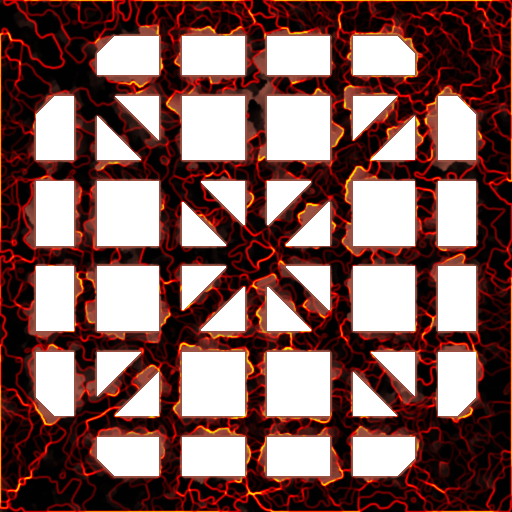
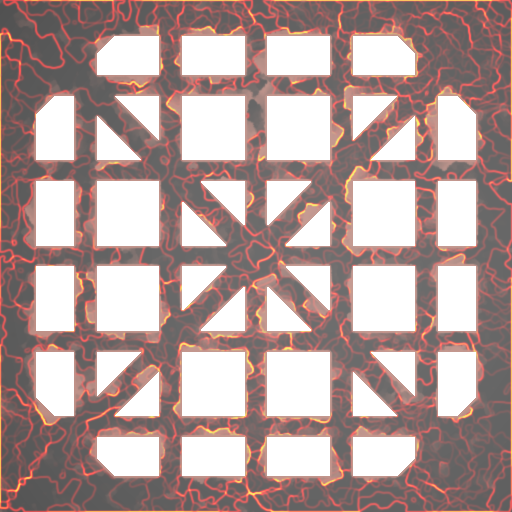
texture crash possibly fixed texture alpha done

diff --git a/Main.cpp b/Main.cpp
@@ -24,7 +24,7 @@ public:
 
 	// Meshes for scenes
 	game::Mesh plane;
-	game::Mesh alphaWall;
+	game::Mesh alphaCube;
 	game::Mesh model;
 	game::Mesh torus;
 	game::Mesh sky;
@@ -97,7 +97,7 @@ public:
 			std::cout << "Could not load model\n";
 		}
 
-		if (!LoadObj("Content/cubetest.obj", alphaWall))
+		if (!LoadObj("Content/cubetest.obj", alphaCube))
 		{
 			std::cout << "Could not load model\n";
 		}
@@ -113,7 +113,7 @@ public:
 		uint32_t t = 0;
 		uint32_t texw = 0;
 		uint32_t texh = 0;
-		uint32_t* temp = (uint32_t*)imageloader.Load("content/colormap2.png", texw, texh, t);
+		uint32_t* temp = (uint32_t*)imageloader.Load("content/colormap3.png", texw, texh, t);
 		model.texture.data = new uint32_t[texw * texh];
 		memcpy(model.texture.data, temp, (size_t)texw * texh * 4);
 		model.texture.size.width = texw;
@@ -133,10 +133,10 @@ public:
 		texw = 0;
 		texh = 0;
 		temp = (uint32_t*)imageloader.Load("content/grate0_alpha.png", texw, texh, t);
-		alphaWall.texture.data = new uint32_t[texw * texh];
-		memcpy(alphaWall.texture.data, temp, (size_t)texw * texh * 4);
-		alphaWall.texture.size.width = texw;
-		alphaWall.texture.size.height = texh;
+		alphaCube.texture.data = new uint32_t[texw * texh];
+		memcpy(alphaCube.texture.data, temp, (size_t)texw * texh * 4);
+		alphaCube.texture.size.width = texw;
+		alphaCube.texture.size.height = texh;
 		
 
 		game::Random rnd;
@@ -219,32 +219,32 @@ public:
 		plane.SetTranslation(0.0f, 0.1f, 0.0f);
 		plane.SetScale(60.0f, 60.0f, 60.0f);
 
-		alphaWall.SetTranslation(-0.0f, -0.41f, 0.0f);
-		alphaWall.SetScale(0.5f, 0.5f, 0.5f);
+		alphaCube.SetTranslation(-0.0f, -0.41f, 0.0f);
+		alphaCube.SetScale(0.5f, 0.5f, 0.5f);
 		game::Color col(1.0f, 0.0f, 0.0f, 0.5f);
 		game::Color col2(0.0f, 1.0f, 0.0f, 0.5f);
 		game::Color col3(0.0f, 0.0f, 1.0f, 0.5f);
 		game::Color set = col;
 		uint32_t ct = 0;
-		for (uint32_t i = 0; i < alphaWall.tris.size(); i++)
+		for (uint32_t i = 0; i < alphaCube.tris.size(); i++)
 		{			
-			alphaWall.tris[i].color[0] = set;
-			alphaWall.tris[i].color[1] = set;
-			alphaWall.tris[i].color[2] = set;
-			ct++;
-			ct %= 3;
-			if (ct == 0)
-			{
-				set = col;
-			}
-			if (ct == 1)
-			{
-				set = col2;
-			}
-			if (ct == 2)
-			{
-				set = col3;
-			}
+			alphaCube.tris[i].color[0] = set;
+			alphaCube.tris[i].color[1] = set;
+			alphaCube.tris[i].color[2] = set;
+			//ct++;
+			//ct %= 3;
+			//if (ct == 0)
+			//{
+			//	set = col;
+			//}
+			//if (ct == 1)
+			//{
+			//	set = col2;
+			//}
+			//if (ct == 2)
+			//{
+			//	set = col3;
+			//}
 		}
 
 		model.SetRotation(3.14159f / 2.0f, 3.14159f, 0.0f);
@@ -270,7 +270,7 @@ public:
 		software3D.DeleteRenderTarget(renderTarget);
 		software3D.DeleteTexture(sky.texture);
 		software3D.DeleteTexture(model.texture);
-		software3D.DeleteTexture(alphaWall.texture);
+		software3D.DeleteTexture(alphaCube.texture);
 	}
 
 	void Update(const float_t msElapsed)
@@ -390,44 +390,41 @@ public:
 		
 		model.SetRotation(3.14159f / 2.0f, 3.14159f + rotation, 0.0f);
 		sky.SetTranslation(camera.position.x, 1.5f, camera.position.z);
-		alphaWall.SetRotation(0.0f, rotation, 0.0f);
+		//alphaCube.SetRotation(0.0f, rotation, 0.0f);
 		//game::Vector3f center;// (model.centerPoint);
 		//game::Vector3MultMatrix4x4(model.centerPoint, model.model, center);
 		//camera.GenerateLookAtMatrix(center);
 		camera.GenerateViewMatrix();
 		mvpMat = projMat * camera.view; // not sure if this should be in the RenderMesh
 
-
-		software3D.SetState(GAME_SOFTWARE3D_BACKFACECULL, true);
-		//software3D.SetState(GAME_SOFTWARE3D_ALPHA_TEST, false);
-		software3D.SetState(GAME_SOFTWARE3D_DEPTH_WRITE, true);
-		software3D.SetState(GAME_SOFTWARE3D_TEXTURE, false);
-
-		software3D.SetState(GAME_SOFTWARE3D_LIGHTING, false);
-		software3D.RenderMesh(plane, mvpMat, camera, clip);
-
-		software3D.SetState(GAME_SOFTWARE3D_TEXTURE, true);
-		software3D.RenderMesh(sky, mvpMat, camera, clip);
-
-		software3D.SetState(GAME_SOFTWARE3D_LIGHTING, true);
-		//software3D.SetState(GAME_SOFTWARE3D_LIGHTING_TYPE, game::LightingType::Face);
-		software3D.RenderMesh(model, mvpMat, camera, clip);
-		
-		//software3D.SetState(GAME_SOFTWARE3D_LIGHTING_TYPE, game::LightingType::Vertex);
-		software3D.RenderMesh(torus, mvpMat, camera, clip);
-
-		software3D.SetState(GAME_SOFTWARE3D_LIGHTING, false);
-		software3D.SetState(GAME_SOFTWARE3D_TEXTURE, false);
-		software3D.SetState(GAME_SOFTWARE3D_DEPTH_WRITE, false);
-		//software3D.SetState(GAME_SOFTWARE3D_LIGHTING_TYPE, game::LightingType::Face);
-		//software3D.SetState(GAME_SOFTWARE3D_ALPHA_TEST, true);
-		//software3D.SetState(GAME_SOFTWARE3D_ALPHA_TEST_VALUE, 128);
-		software3D.SetState(GAME_SOFTWARE3D_BACKFACECULL, false);
-		software3D.SetState(GAME_SOFTWARE3D_SORT, game::SortingType::BackToFront);
-		software3D.SetState(GAME_SOFTWARE3D_ALPHA_BLEND, true);
-		software3D.RenderMesh(alphaWall, mvpMat, camera, clip);
 		software3D.SetState(GAME_SOFTWARE3D_SORT, game::SortingType::FrontToBack);
 		software3D.SetState(GAME_SOFTWARE3D_ALPHA_BLEND, false);
+		software3D.SetState(GAME_SOFTWARE3D_BACKFACECULL, true);
+		software3D.SetState(GAME_SOFTWARE3D_DEPTH_WRITE, true);
+		software3D.SetState(GAME_SOFTWARE3D_LIGHTING, false);
+		software3D.SetState(GAME_SOFTWARE3D_TEXTURE, true);
+		software3D.RenderMesh(plane, mvpMat, camera, clip);
+
+		software3D.RenderMesh(sky, mvpMat, camera, clip);
+
+
+		software3D.SetState(GAME_SOFTWARE3D_LIGHTING, true);
+		software3D.RenderMesh(torus, mvpMat, camera, clip);
+
+		
+		software3D.SetState(GAME_SOFTWARE3D_ALPHA_TEST, true);
+		software3D.SetState(GAME_SOFTWARE3D_ALPHA_TEST_VALUE, 128);
+		software3D.SetState(GAME_SOFTWARE3D_BACKFACECULL, false);
+		software3D.RenderMesh(alphaCube, mvpMat, camera, clip);
+
+		software3D.SetState(GAME_SOFTWARE3D_LIGHTING, false);
+		software3D.SetState(GAME_SOFTWARE3D_DEPTH_WRITE, false);
+		software3D.SetState(GAME_SOFTWARE3D_ALPHA_TEST, false);
+		software3D.SetState(GAME_SOFTWARE3D_SORT, game::SortingType::BackToFront);
+		software3D.SetState(GAME_SOFTWARE3D_ALPHA_BLEND, true);
+		software3D.RenderMesh(model, mvpMat, camera, clip);
+
+
 
 
 

diff --git a/GameSoftware3D.h b/GameSoftware3D.h
@@ -470,6 +470,7 @@ namespace game
 
 	inline void Software3D::RenderMesh(Mesh& mesh, Matrix4x4f& projection, Camera3D& camera, ClippingRects& clip)
 	{
+		
 		VertexProcessor(mesh, projection, trianglesToRender, camera);
 		SetTexture(mesh.texture);
 		uint64_t fenceCount = 0;
@@ -478,6 +479,9 @@ namespace game
 			{
 				float_t az = a.vertices[0].z + a.vertices[1].z + a.vertices[2].z;
 				float_t bz = b.vertices[0].z + b.vertices[1].z + b.vertices[2].z;
+				//float_t ad = max(max(a.vertices[0].z, a.vertices[1].z), a.vertices[2].z);
+				//float_t bd = max(max(b.vertices[0].z, b.vertices[1].z), b.vertices[2].z);
+				//std::cout << az << "," << bz << "\n";
 				return az > bz;
 			};
 		auto frontToBack = [](const game::Triangle& a, const game::Triangle& b)
@@ -499,7 +503,7 @@ namespace game
 			default: break;
 			}
 			
-			//pixelMode.Rect(clip[c], game::Colors::Yellow);
+			//_pixelMode->Rect(clip.clips[c], game::Colors::Yellow);
 			Render(clip.clippedTris[c], clip.clips[c]);
 			fenceCount++;
 		}
@@ -719,7 +723,7 @@ namespace game
 		float_t upDiv = 0.0f;
 		float_t vpDiv = 0.0f;
 
-		uint32_t color = 0;
+		//uint32_t color = 0;
 		uint32_t rc = 0;
 		uint32_t gc = 0;
 		uint32_t bc = 0;
@@ -955,17 +959,16 @@ namespace game
 						}
 
 						// alpha blending
-						if (_enableAlphaBlend) //307
+						if (_enableAlphaBlend) 
 						{
 							uint32_t dest = *colorBuffer;
-							// extract dest
-						
+							// extract dest						
 							float_t rDest = ((dest >> 0) & 0xFF) * colorAtPixel.oneOver255;
 							float_t gDest = ((dest >> 8) & 0xFF) * colorAtPixel.oneOver255;
 							float_t bDest = ((dest >> 16) & 0xFF) * colorAtPixel.oneOver255;
 							float_t aDest = ((dest >> 24) & 0xFF) * colorAtPixel.oneOver255;
 							float_t aFinal = 1.0f - (1.0f - aSource) * (1 - aDest);
-							if (aFinal < 1.0e-6) continue; // completly transparent, skip
+							
 							// fg.R * fg.A / r.A + bg.R * bg.A * (1 - fg.A) / r.A;
 							float_t adnewa = aSource / aFinal;
 							float_t da1minadnewa = aDest * (1.0f - aSource) / aFinal;
@@ -1005,10 +1008,10 @@ namespace game
 						vpDiv = min(vpDiv, 1.0f); //clamp
 						tx = max((uint32_t)(upDiv * (_currentTexture.size.width - 1) + 0.5f), 0);	// -1 fix texture seams at max texW and texH
 						ty = max((uint32_t)(vpDiv * (_currentTexture.size.height - 1) + 0.5f), 0);
-						color = _currentTexture.data[ty * _currentTexture.size.width + tx];
+						colorAtPixel.packedABGR = _currentTexture.data[ty * _currentTexture.size.width + tx];
 						if (_enableAlphaTest)
 						{							
-							if (((color >> 24) & 0xFF) < _alphaTestValue)
+							if (((colorAtPixel.packedABGR >> 24) & 0xFF) < _alphaTestValue)
 							{
 								++colorBuffer;
 								++depthBufferPtr;
@@ -1023,23 +1026,52 @@ namespace game
 
 							}
 						}
-						
+
 						// texture lighting
 						if (lighting)
 						{
-							rc   = (color >> 0) & 0xFF;
-							gc   = (color >> 8) & 0xFF;
-							bc   = (color >> 16) & 0xFF;
+							rc = (colorAtPixel.packedABGR >> 0) & 0xFF;
+							gc = (colorAtPixel.packedABGR >> 8) & 0xFF;
+							bc = (colorAtPixel.packedABGR >> 16) & 0xFF;
+							ac = (colorAtPixel.packedABGR >> 24) & 0xFF;
 							rc = (uint32_t)(rc * luminance);
 							gc = (uint32_t)(gc * luminance);
 							bc = (uint32_t)(bc * luminance);
 
-							*colorBuffer = ((0xFF << 24) | (bc << 16) | (gc << 8) | (rc));
+							colorAtPixel.packedABGR = ((ac << 24) | (bc << 16) | (gc << 8) | (rc));
 						}
-						if (!lighting)
+
+						if (_enableAlphaBlend) 
 						{
-							*colorBuffer = color;// _currentTexture.data[ty * _currentTexture.size.width + tx];
+							uint32_t dest = *colorBuffer;
+							// extract dest
+
+							float_t rDest = ((dest >> 0) & 0xFF) * colorAtPixel.oneOver255;
+							float_t gDest = ((dest >> 8) & 0xFF) * colorAtPixel.oneOver255;
+							float_t bDest = ((dest >> 16) & 0xFF) * colorAtPixel.oneOver255;
+							float_t aDest = ((dest >> 24) & 0xFF) * colorAtPixel.oneOver255;
+							rSource = ((colorAtPixel.packedABGR >> 0) & 0xFF) * colorAtPixel.oneOver255;
+							gSource = ((colorAtPixel.packedABGR >> 8) & 0xFF) * colorAtPixel.oneOver255;
+							bSource = ((colorAtPixel.packedABGR >> 16) & 0xFF) * colorAtPixel.oneOver255;
+							aSource = ((colorAtPixel.packedABGR >> 24) & 0xFF) * colorAtPixel.oneOver255;
+							float_t aFinal = 1.0f - (1.0f - aSource) * (1 - aDest);
+							// fg.R * fg.A / r.A + bg.R * bg.A * (1 - fg.A) / r.A;
+							float_t adnewa = aSource / aFinal;
+							float_t da1minadnewa = aDest * (1.0f - aSource) / aFinal;
+							//rd = rd * ad / newa + dr * da * (1.0f - ad) / newa;
+							//gd = gd * ad / newa + dg * da * (1.0f - ad) / newa;
+							//bd = bd * ad / newa + db * da * (1.0f - ad) / newa;
+							rSource = rSource * adnewa + rDest * da1minadnewa;
+							gSource = gSource * adnewa + gDest * da1minadnewa;
+							bSource = bSource * adnewa + bDest * da1minadnewa;
+							colorAtPixel.Set(rSource, gSource, bSource, aFinal);
 						}
+						
+
+						//if (!lighting)
+						//{
+						*colorBuffer = colorAtPixel.packedABGR;// color;// _currentTexture.data[ty * _currentTexture.size.width + tx];
+						//}
 					}
 				}
 				++colorBuffer;
